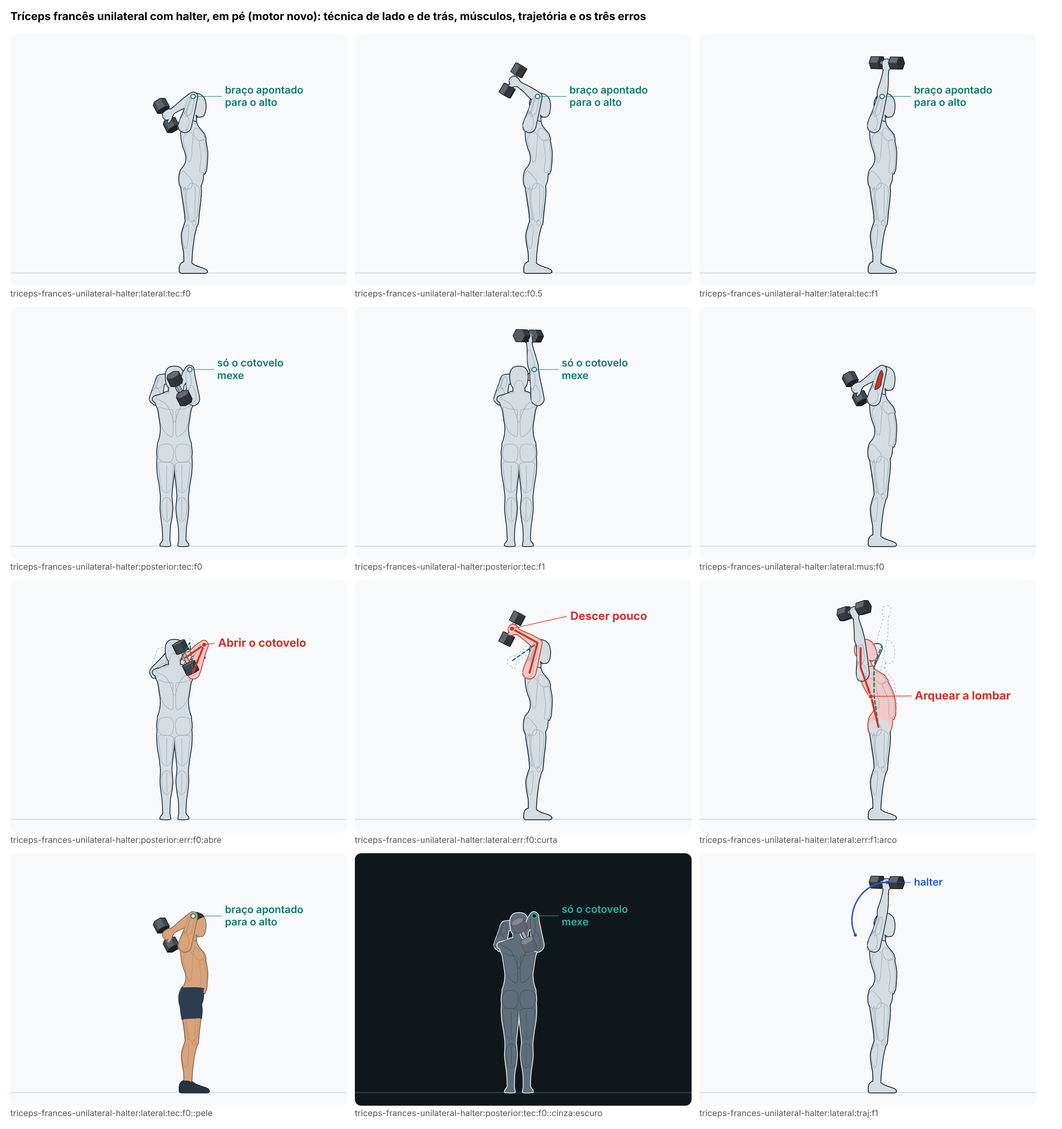
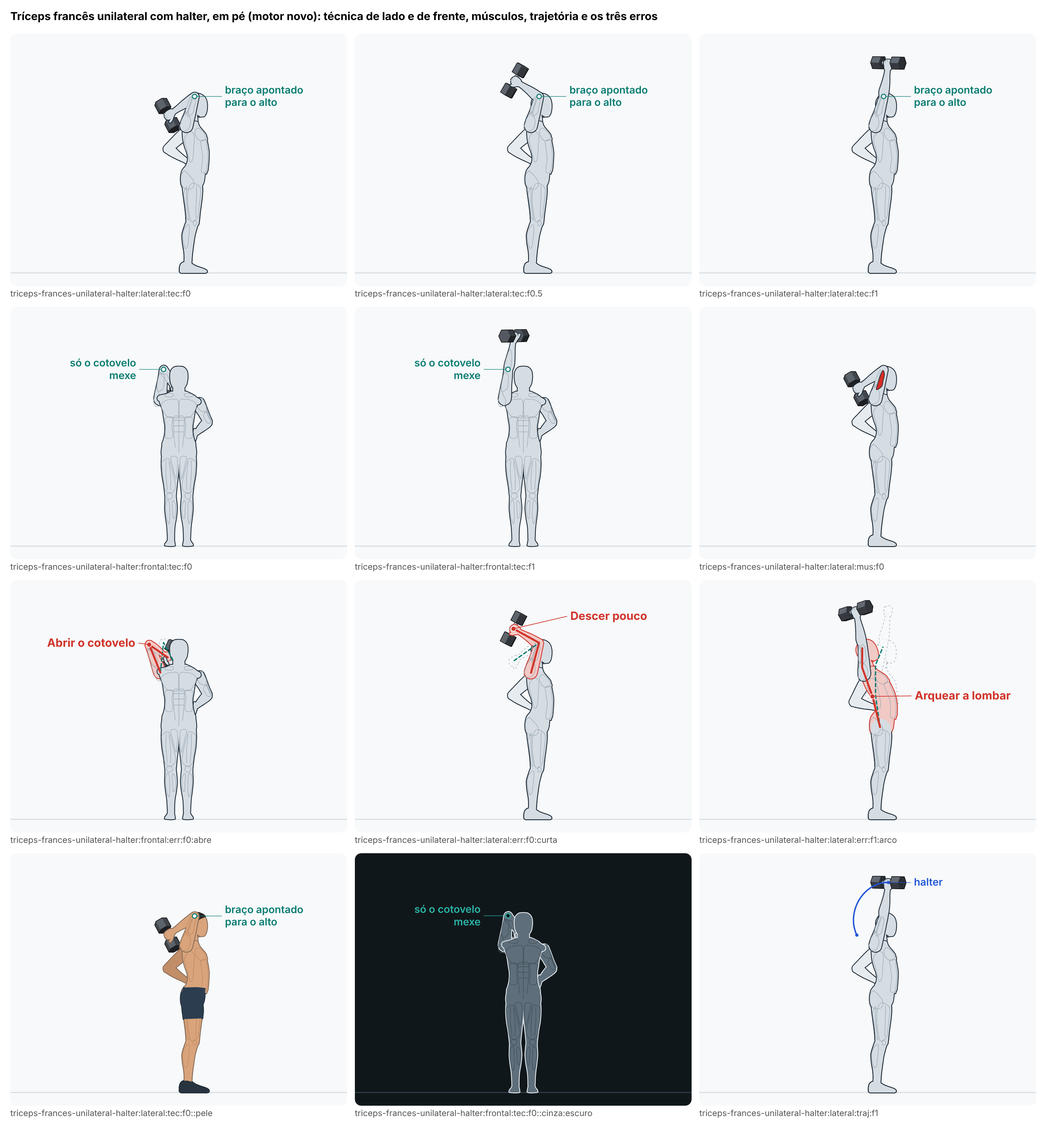
Lote A3: tríceps francês unilateral com a outra mão na cintura
A mão esquerda deixa de segurar o cotovelo (opcional no cartão): o braço
esquerdo cruzava por cima da cabeça e tapava o rosto. Ela fica na
cintura, como no unilateral na polia aprovado, e a vista de frente volta
no lugar da de trás (o tríceps aparece de frente; o rosto fica livre).
A pelve vai 1,5 cm à frente para o centro de massa voltar ao meio do pé.

Claude-Session: https://claude.ai/code/session_01YRzts8DBGbsca9onebcMt1

diff --git a/src/engine/novo/exercicios/triceps-frances-base.ts b/src/engine/novo/exercicios/triceps-frances-base.ts
@@ -17,7 +17,7 @@
 // pé de trás, é montada por quem usa o núcleo.
 // Com um halter numa mão só (`carga: 'halter-unilateral'`, acréscimo de 17/11/2026): em pé, o tronco na vertical (os pés
 // lado a lado, pelas linhas da ficha), a mão direita fecha no cabo do halter com a pegada neutra (a do estribo) e o
-// cabo atravessa a mão; a mão esquerda segura o braço direito logo acima do cotovelo.
+// cabo atravessa a mão; a mão esquerda fica na cintura, como com o estribo.
 import { formaDoKettlebell } from '../equipamento';
 import { resolverMembros, resolverTronco, sinal } from '../esqueleto';
 import type { Lado, PoseBraco, PosePerna, Tronco } from '../esqueleto';
@@ -189,15 +189,15 @@ export function criarTricepsFrances(fichaJson: unknown, carga: CargaDoFrances): 
     const eixo = eixoDe(phi);
     const R = montaLado('R', phi, eixo),
       L = montaLado('L', phi, eixo);
-    // com o estribo, a outra mão fica na cintura
-    const poseL = carga === 'estribo' ? maoNaCintura(corpo, t) : carga === 'halter-unilateral' ? maoNoCotovelo(T, R.cot, e0.lado.R.ombro) : L.m.pose;
+    // com o estribo e com o halter numa mão, a outra mão fica na cintura
+    const poseL = carga === 'estribo' || carga === 'halter-unilateral' ? maoNaCintura(corpo, t) : L.m.pose;
     const e = resolverMembros(t, { R: R.m.pose, L: poseL }, pernas);
     return { e, eixo, maos: { R: R.m, L: L.m }, phi };
   }
 
   /**
-   * A mão esquerda na cintura (só com o estribo): a palma aberta sobre a crista do osso do quadril, os dedos para a
-   * frente e para baixo, o polegar para cima, o cotovelo para fora e para trás.
+   * A mão esquerda na cintura (com o estribo e com o halter numa mão): a palma aberta sobre a crista do osso do
+   * quadril, os dedos para a frente e para baixo, o polegar para cima, o cotovelo para fora e para trás.
    */
   function maoNaCintura(corpo: Corpo, t: Tronco): PoseBraco {
     const P = t.pelve;
@@ -205,18 +205,6 @@ export function criarTricepsFrances(fichaJson: unknown, carga: CargaDoFrances): 
     const punho = noRef(P, [s * f('maoNaCintura.x'), corpo.m('altura.cristaIliaca') - corpo.m('altura.trocanter') + f('maoNaCintura.acima'), f('maoNaCintura.z')]);
     const dedos = norm(dirRef(P, [0, -0.45, 1]));
     return { punho, polo: dirRef(P, [s * 0.6, 0, -1]), mao: { dedos, polegar: dirRef(P, [0, 1, 0]), forma: 'aberta' } };
-  }
-
-  /**
-   * A mão esquerda segurando o braço direito (só com o halter numa mão): a mão fecha em volta do braço, a
-   * `maoNoCotovelo.doCotovelo` cm do cotovelo, vinda da frente e por cima da cabeça; o polegar aponta para o ombro
-   * direito (assim o antebraço esquerdo fica dentro da rotação que ele tem), o cotovelo esquerdo para a frente, para
-   * fora e um pouco para cima (o antebraço passa na altura da testa, e não na frente dos olhos).
-   */
-  function maoNoCotovelo(T: Tronco['torax'], cot: V3, ombro: V3): PoseBraco {
-    const u = norm(sub(ombro, cot));
-    const pegada = add(cot, mul(u, f('maoNoCotovelo.doCotovelo')));
-    return { pegada, polo: norm(dirRef(T, [f('maoNoCotovelo.poloFora'), -f('maoNoCotovelo.poloBaixo'), 1])), mao: { polegar: u, forma: 'pegada', diam: f('maoNoCotovelo.diam') } };
   }
 
   /* ---------------- calibração (uma vez por corpo) ---------------- */
@@ -362,7 +350,7 @@ export function criarTricepsFrances(fichaJson: unknown, carga: CargaDoFrances): 
       const centro = R.pegada,
         eixo = R.mao.x;
       marcas.halter = centro;
-      marcas.maoNoBraco = L.pegada;
+      marcas.maoDeApoio = L.pegada;
       return { esq: e, prims: [chao(-70, 70, -60, 90), ...halter(centro, eixo, 0.2)], pecas: [{ t: 'halter', centro, eixo }], fios: [], cargas: [{ massa: obj('halter', 'massa'), pos: centro }], marcas, vies: { maoR: 1 } };
     }
     const meio = mul(add(R.pegada, L.pegada), 0.5);

diff --git a/src/engine/novo/regras/triceps-frances-unilateral-halter.ts b/src/engine/novo/regras/triceps-frances-unilateral-halter.ts
@@ -1,8 +1,7 @@
-// Regra medida do tríceps francês unilateral com halter: a outra mão segura o braço que trabalha, logo acima do
-// cotovelo, e fica com ele (as outras regras são as dos tríceps franceses: ./triceps-frances.ts e
-// ./triceps-frances-unilateral.ts).
+// Regra medida do tríceps francês unilateral com halter: o halter não encosta no corpo, medido com a forma das cabeças
+// (as outras regras são as dos tríceps franceses: ./triceps-frances.ts e ./triceps-frances-unilateral.ts).
 import { pontosDoBoneco } from '../boneco';
-import { f1, faixa } from '../conferir-util';
+import { f1 } from '../conferir-util';
 import type { Regra } from '../conferir-util';
 import type { Prim } from '../desenho';
 import { dist, dot, norm, sub } from '../vec';
@@ -46,23 +45,5 @@ export const REGRAS_TRICEPS_FRANCES_UNILATERAL_HALTER: Record<string, Regra> = {
       }
     }
     return { medido: `o halter passa a no mínimo ${f1(min)} cm da pele (${qual})`, ok: min >= 1 };
-  },
-  'triceps-frances-mao-no-cotovelo': (q) => {
-    // a menor distância entre a pele da mão esquerda e a do braço direito (perto do cotovelo), e onde a mão fica
-    const folgas: number[] = [],
-      doCotovelo: number[] = [];
-    for (const [i, x] of q.entries()) {
-      doCotovelo.push(dist(x.esq.lado.L.pegada, x.esq.lado.R.cotovelo));
-      if (i % 4 && i !== q.length - 1) continue;
-      const pts = pontosDoBoneco(x.esq);
-      const mao = pts.filter((p) => (p.parte === 'mao' || p.parte === 'polegar') && p.p[0] > x.esq.lado.R.cotovelo[0] && dist(p.p, x.esq.lado.L.pegada) < 12).map((p) => p.p);
-      const braco = pts.filter((p) => p.parte === 'braco' && dist(p.p, x.esq.lado.R.cotovelo) < 14).map((p) => p.p);
-      let m = 1e9;
-      for (const a of mao) for (const b of braco) m = Math.min(m, dist(a, b));
-      folgas.push(m);
-    }
-    const [a, b] = faixa(folgas),
-      [c, d] = faixa(doCotovelo);
-    return { medido: `a pele da mão esquerda fica de ${f1(a)} a ${f1(b)} cm da pele do braço direito; o centro da mão fica de ${f1(c)} a ${f1(d)} cm do cotovelo`, ok: b <= 1.5 && d <= 12 };
   },
 };

diff --git a/src/engine/novo/exercicios/triceps-frances-unilateral-halter.ts b/src/engine/novo/exercicios/triceps-frances-unilateral-halter.ts
@@ -2,7 +2,9 @@
 // (../dados/movimentos/triceps-frances-unilateral-halter.json); o movimento é o de ./triceps-frances-base.ts (o braço do
 // tríceps francês unilateral na polia aprovado): em pé, pés na largura do quadril, tronco reto. O halter na mão direita
 // (o braço de perto, de lado), com a pegada neutra; o braço fica parado, apontado para o alto, e só o cotovelo dobra,
-// levando o halter para trás da cabeça, e estende. A mão esquerda segura o braço direito logo acima do cotovelo.
+// levando o halter para trás da cabeça, e estende. A mão esquerda fica na cintura, como no unilateral na polia
+// aprovado (o cartão deixa segurar o cotovelo como opcional: com a mão no cotovelo, o braço esquerdo cruzava por cima
+// da cabeça e tapava o rosto).
 // Em pé, e não sentado: a ficha da técnica pede só o halter (a cadeira ou o banco são opcionais), e o cartão põe o
 // banco como preferência ("se preferir sentado").
 import ficha from '../dados/movimentos/triceps-frances-unilateral-halter.json';
@@ -13,7 +15,7 @@ const T = criarTricepsFrances(ficha, 'halter-unilateral');
 
 export const tricepsFrancesUnilateralHalter: Exercicio = {
   ficha: T.ficha,
-  vistas: ['lateral', 'posterior'],
+  vistas: ['lateral', 'frontal'],
   quadro: T.quadro,
   // a biblioteca: tríceps principal, sem secundário; só o lado que trabalha
   papeis: { 'triceps:R': 'p' },

diff --git a/docs/revisoes/animacao-nova/lote-A3/triceps-frances-unilateral-halter.md b/docs/revisoes/animacao-nova/lote-A3/triceps-frances-unilateral-halter.md
@@ -1,28 +1,23 @@
 # Lote A3 · Tríceps francês unilateral com halter (`triceps-frances-unilateral-halter`)
 
-De 17/11/2026. Primeira animação deste exercício (até aqui ele só aparecia como cartão de texto). **Em pé**, pés na largura do quadril, tronco reto; um halter de 25 lb na mão direita, com a pegada neutra; o braço fica parado, apontado para o alto, e só o cotovelo dobra, levando o halter para trás da cabeça, e estende. A mão esquerda segura o braço direito logo acima do cotovelo. **Ainda não aprovada nem ligada às telas** (quem integra registra em `aprovados.ts` e no catálogo do guia).
+De 17/11/2026. Primeira animação deste exercício (até aqui ele só aparecia como cartão de texto). **Em pé**, pés na largura do quadril, tronco reto; um halter de 25 lb na mão direita, com a pegada neutra; o braço fica parado, apontado para o alto, e só o cotovelo dobra, levando o halter para trás da cabeça, e estende. **A mão esquerda fica na cintura**, como no tríceps francês unilateral na polia aprovado. **Ainda não aprovada nem ligada às telas** (quem integra registra em `aprovados.ts` e no catálogo do guia).
 
 - Ficha da técnica: `docs/pesquisa/animacoes/triceps-frances-unilateral-halter.md`. Cartão do app: `src/conteudo/exercicios/triceps-frances-unilateral-halter.json` (só leitura).
 - Ficha de movimento: `src/engine/novo/dados/movimentos/triceps-frances-unilateral-halter.json`.
-- Animação: `src/engine/novo/exercicios/triceps-frances-unilateral-halter.ts`, sobre o núcleo dos tríceps franceses (`exercicios/triceps-frances-base.ts`), com a variação nova `'halter-unilateral'`. Regras novas: `src/engine/novo/regras/triceps-frances-unilateral-halter.ts`.
+- Animação: `src/engine/novo/exercicios/triceps-frances-unilateral-halter.ts`, sobre o núcleo dos tríceps franceses (`exercicios/triceps-frances-base.ts`), com a variação nova `'halter-unilateral'`. Regra nova: `src/engine/novo/regras/triceps-frances-unilateral-halter.ts`.
 - Quadros grandes: `../quadros/triceps-frances-unilateral-halter.png`. **Sem folha**: o exercício não tinha animação.
 
 ## Em pé, e não sentado
 
 O cartão aceita os dois ("Sentado ou em pé"). A ficha da técnica pede **só o halter**, com "cadeira ou banco opcionais", e o cartão põe o banco como preferência ("Uma cadeira ou banco, se preferir sentado"). O caso de base, o que serve a quem tem só o halter, é em pé. Em pé, o erro do cartão "o tronco inclina para trás" também tem para onde ir.
 
-## A outra mão no cotovelo
+## A outra mão na cintura (revisão de 17/11/2026)
 
-O cartão sugere ("a outra mão segura o cotovelo de trabalho, se quiser"), e eu desenhei: a mão esquerda fecha em volta do braço direito, 7 cm acima do cotovelo, vinda da frente e por cima da cabeça. O que precisou de ajuste, medido:
-
-- com o cotovelo esquerdo apontando para baixo, o antebraço esquerdo passava na frente dos olhos e encostava no rosto (0,1 cm); com ele apontando um pouco para cima (`maoNoCotovelo.poloBaixo` = −0,3), o antebraço passa na altura da testa, a no mínimo 0,8 cm da pele da cabeça;
-- com o polegar para o cotovelo, o antebraço esquerdo girava 123° a 161° (acima da amplitude da tabela); com o polegar para o ombro, ele fica em 35°.
-
-**Por isso a segunda vista é a de trás, e não a de frente:** de frente, o antebraço esquerdo tapa o rosto (é o que acontece de verdade, mas o quadro vira um borrão). De trás, o halter atrás da cabeça e o cotovelo apontado para cima se leem de relance, e o braço esquerdo fica atrás da cabeça.
+A primeira versão desenhou a sugestão do cartão ("a outra mão segura o cotovelo de trabalho, se quiser"): a mão esquerda no braço direito, 7 cm acima do cotovelo. O braço esquerdo cruzava por cima da cabeça e, de lado, o quadro ficava confuso; de frente, o antebraço esquerdo tapava o rosto, e a segunda vista teve de ser a de trás, onde o tríceps não aparece (0 cm²). Na revisão de quem integra, a mão foi para a cintura, como no unilateral na polia aprovado: o cartão diz que segurar o cotovelo é opcional. Com isso, **a vista de frente voltou a servir** (o tríceps aparece com 90 a 95 cm² e o rosto fica livre), e o rótulo e o erro de abrir o cotovelo voltaram para ela.
 
 ## Onde os números saem
 
-A ficha da técnica dá "braço acima da cabeça, apontado para o alto" (maeo2023, um estudo) e "só o cotovelo dobra, até bem dobrado" (consenso), sem número. O que ela não dá saiu dos tríceps franceses aprovados: o braço a 165° do braço pendurado (o com halter), 6° para o meio, o cotovelo a 135° embaixo e a mão atrás da cabeça a 5 cm do meio, a pegada neutra e o tempo das fases (o unilateral na polia); a postura em pé, dos desenvolvimentos em pé aprovados (pés a 9 cm do meio, joelhos a 8°). O meio da pelve fica 3,5 cm à frente para o centro de massa (corpo + halter) cair no meio do pé.
+A ficha da técnica dá "braço acima da cabeça, apontado para o alto" (maeo2023, um estudo) e "só o cotovelo dobra, até bem dobrado" (consenso), sem número. O que ela não dá saiu dos tríceps franceses aprovados: o braço a 165° do braço pendurado (o com halter), 6° para o meio, o cotovelo a 135° embaixo e a mão atrás da cabeça a 5 cm do meio, a pegada neutra, a mão na cintura e o tempo das fases (o unilateral na polia); a postura em pé, dos desenvolvimentos em pé aprovados (pés a 9 cm do meio, joelhos a 8°). O meio da pelve fica 5 cm à frente para o centro de massa (corpo + halter) cair no meio do pé (com a mão na cintura, o braço esquerdo não vai mais para a frente da cabeça, e a pelve foi 1,5 cm mais à frente que na primeira versão).
 
 ## O que a fonte pede × o que o boneco faz (medido) × confere?
 
@@ -34,23 +29,27 @@ A ficha da técnica dá "braço acima da cabeça, apontado para o alto" (maeo202
 | Embaixo: halter atrás da cabeça, cotovelo bem dobrado | consenso | o cotovelo dobra 134,7°; o centro da mão fica 18,7 cm atrás da parte de trás da cabeça | sim |
 | Em cima: braço reto acima da cabeça | consenso | o cotovelo dobra 8,1° | sim |
 | O halter não encosta na cabeça, na nuca nem nas costas | desenho | o halter passa a no mínimo 1,1 cm da pele (o braço) | sim |
-| A outra mão segura o cotovelo de trabalho (cartão) | consenso | a pele da mão esquerda fica de 0,3 a 0,4 cm da pele do braço direito; o centro da mão a 7 cm do cotovelo | sim |
+| A outra mão (segurar o cotovelo é opcional no cartão) | desenho | na cintura: a pele da mão esquerda fica a 0,6 cm da pele da cintura e não anda em relação à pelve (0 cm) | sim |
 | Descida ~2 a 3 s | consenso | 2,5 s; subida em 1,1 s (a do tríceps francês aprovado); ritmo suave (6,2% da velocidade de pico) | sim |
-| Equilíbrio (mecânica) | consenso | o centro de massa (corpo + halter) anda de −3,3 a 1,7 cm do meio do pé | sim |
+| Equilíbrio (mecânica) | consenso | o centro de massa (corpo + halter) anda de −2,9 a 2,1 cm do meio do pé (limite: ±5 cm) | sim |
 
 **O halter contra o corpo é medido por uma regra nova** (`triceps-frances-halter-livre-do-corpo`), e não pela dos tríceps franceses com as duas mãos (`triceps-frances-carga-livre-do-corpo`). A de lá mede cada cabeça do halter como uma cápsula (pontas arredondadas, com o raio da cabeça). Com o cabo atravessando a mão, a ponta arredondada da cápsula entra no punho, e a regra dava 0,4 cm "do antebraço" para uma cabeça de pontas planas que, medida como ela é, fica a mais de 1 cm da pele. A regra nova mede a cabeça como um cilindro de pontas planas com o raio de fora do prisma (a forma de verdade, ou um pouco maior), com o mesmo limite (1 cm).
 
-**Conferência automática: 0 falha, 2 avisos.** (1) As linhas da ficha de movimento que são escolha de desenho (os pés, a pelve, o joelho, o pescoço, o braço para o meio, a mão atrás da cabeça e as três linhas da mão no cotovelo). (2) O modo Músculos abre de lado (64 cm²); de trás o tríceps não aparece (0 cm²: com o braço acima da cabeça, a parte de trás do braço fica virada para a frente). De frente ele apareceria (95 cm²), mas de frente o rosto fica tapado (acima).
+**Conferência automática: 0 falha, 1 aviso**: as linhas da ficha de movimento que são escolha de desenho (os pés, a pelve, o joelho, o pescoço, o braço para o meio, a mão atrás da cabeça e as três linhas da mão na cintura). O modo Músculos abre de frente (90 cm², o pior dos três instantes; 95 cm² no alongado), com o tríceps de frente porque, com o braço acima da cabeça, a parte de trás do braço fica virada para a frente; de lado, 64 cm².
+
+## As vistas
+
+**De lado** (padrão do modo Técnica): o braço parado apontado para o alto, o halter descendo atrás da cabeça e o arco da lombar. **De frente**: o cotovelo perto da cabeça (e o erro de abri-lo), o tríceps no modo Músculos e o rosto livre. Embaixo, de frente, o halter fica escondido atrás da cabeça (é onde ele tem de estar); a vista de lado mostra onde ele está.
 
 ## Erros (os três do cartão, com o mesmo título e na mesma ordem)
 
 | Erro (texto do app) | Vista | O que o boneco faz (medido) |
 |---|---|---|
-| Abrir o cotovelo | de trás | no alongado, o braço abre 22° para fora (o cotovelo vai a 20,9 cm da cabeça; o certo: 7,6 cm) e volta para perto da cabeça estendendo; a mão esquerda continua no braço |
+| Abrir o cotovelo | de frente | no alongado, o braço abre 22° para fora (o cotovelo vai a 20,9 cm da cabeça; o certo: 7,6 cm) e volta para perto da cabeça estendendo |
 | Descer pouco | de lado | a descida para com o cotovelo a 75°: o halter fica acima da cabeça, sem descer atrás dela |
 | Arquear a lombar | de lado | enquanto o halter sobe, a lombar estende 16° e as costas de cima 6°: o peito vai 19,5° para trás da vertical |
 
-Os três são pose; nenhum ficou de fora. Nos três, o halter continua longe da pele (1,1 a 4 cm).
+Os três são pose; nenhum ficou de fora. Nos três, o halter continua longe da pele (1,1 a 4 cm) e a mão esquerda fica na cintura (0,5 a 0,6 cm).
 
 ## O equipamento
 
@@ -58,14 +57,13 @@ Os três são pose; nenhum ficou de fora. Nos três, o halter continua longe da 
 
 ## Correções já feitas que esta animação respeita
 
-Não há correção registrada para este exercício. Das correções do tríceps francês com halter (as duas mãos juntas na anilha, 12 cm), nenhuma se aplica a uma mão só; a pegada aqui é no cabo, a do unilateral na polia aprovado.
+Não há correção registrada para este exercício. Das correções do tríceps francês com halter (as duas mãos juntas na anilha, 12 cm), nenhuma se aplica a uma mão só; a pegada aqui é no cabo, e a outra mão na cintura, as do unilateral na polia aprovado.
 
 ## Mudanças em arquivos comuns
 
-- `exercicios/triceps-frances-base.ts`: a variação nova `'halter-unilateral'` (em pé, pela mesma conta do estribo, com o halter na mão e a mão esquerda no braço direito, `maoNoCotovelo`). Aditiva: as outras variações não passam pelo código novo, e o preparo dos tríceps franceses aprovados não mudou.
+- `exercicios/triceps-frances-base.ts`: a variação nova `'halter-unilateral'` (em pé, pela mesma conta do estribo, com o halter na mão e a mão esquerda na cintura, a mesma função do estribo). Aditiva: as outras variações não passam pelo código novo, e o preparo dos tríceps franceses aprovados não mudou.
 
 ## O que não ficou bom
 
-- **De trás, embaixo, a mão que segura o halter fica escondida atrás do halter**; o halter cobre a parte de trás da cabeça (está atrás dela, a mais de 1 cm). De lado a mão fechada no cabo se vê bem.
-- **O antebraço esquerdo passa a ~1 cm da testa.** É como se faz (o braço cruza por cima da cabeça), mas de frente ele tapa o rosto: por isso a vista de frente ficou de fora.
-- **O modo Músculos só tem a vista de lado**: de trás o tríceps não aparece com o braço levantado.
+- **De frente, embaixo, o halter some atrás da cabeça**; só a mão e o antebraço aparecem por cima dela. A vista de lado (a que o app abre) mostra o halter atrás da cabeça.
+- **De lado, o cotovelo esquerdo (mão na cintura) aparece atrás das costas**, como no unilateral na polia aprovado.

diff --git a/docs/revisoes/animacao-nova/lote-A3/resumo-empurrar.md b/docs/revisoes/animacao-nova/lote-A3/resumo-empurrar.md
@@ -6,15 +6,15 @@ Três exercícios que eram cartão de texto ganharam a primeira animação no mo
 |---|---|---|---|
 | `desenvolvimento-unilateral` (um halter, em pé) | `empurrar-para-cima.ts` (variação nova `'halter'`) | 0 falha, 2 avisos | médio |
 | `desenvolvimento-em-pe-halteres` (dois halteres, em pé) | `empurrar-para-cima.ts` (variação nova `'halteres-em-pe'`) | 0 falha, 2 avisos | baixo |
-| `triceps-frances-unilateral-halter` (um halter, em pé) | `triceps-frances-base.ts` (variação nova `'halter-unilateral'`) | 0 falha, 2 avisos | médio |
+| `triceps-frances-unilateral-halter` (um halter, em pé) | `triceps-frances-base.ts` (variação nova `'halter-unilateral'`) | 0 falha, 1 aviso | baixo |
 
-Os avisos são, nos três: as linhas da ficha de movimento que são escolha de desenho, e a segunda vista que não serve ao modo Músculos (o músculo principal some nela em algum instante).
+Os avisos são: nos três, as linhas da ficha de movimento que são escolha de desenho; nos dois desenvolvimentos, a segunda vista (de frente) que não serve ao modo Músculos (a frente do ombro some nela no meio e em cima).
 
 ## Decisões que valem para o Gustavo olhar
 
 - **"Na altura do ombro", e não "das orelhas".** Os dois cartões dos desenvolvimentos em pé pedem o halter na altura do(s) ombro(s); o sentado aprovado pede "das orelhas". Embaixo, o centro da mão fica 5,7 cm acima da ponta do ombro (o sentado: na altura da orelha).
 - **No topo, o cotovelo vai 70° à frente** (o sentado: 30°; o com kettlebell: 80°). Com 30°, de lado, a frente do ombro sumia atrás do braço no topo (0 cm², falha). Com o braço quase na vertical, isso move o cotovelo uns 6 cm.
-- **O tríceps francês unilateral é em pé**, porque a ficha da técnica pede só o halter (cadeira ou banco opcionais) e o cartão põe o banco como preferência. **A outra mão segura o cotovelo** (o cartão sugere): ela fecha no braço direito 7 cm acima do cotovelo, e o antebraço esquerdo passa por cima da testa. Por isso a segunda vista é a **de trás**: de frente, esse antebraço tapa o rosto.
+- **O tríceps francês unilateral é em pé**, porque a ficha da técnica pede só o halter (cadeira ou banco opcionais) e o cartão põe o banco como preferência. **A outra mão fica na cintura**, como no unilateral na polia aprovado. A primeira versão desenhava a sugestão do cartão (a outra mão segurando o cotovelo, "se quiser"), mas o braço esquerdo cruzava por cima da cabeça e tapava o rosto; na revisão de quem integra (17/11), a mão foi para a cintura, e a vista de frente voltou a servir (o tríceps com 90 cm² de frente, o rosto livre).
 
 ## Erros
 
@@ -24,13 +24,13 @@ Todos os nove erros dos cartões são pose ou têm consequência visível, e for
 
 - `exercicios/empurrar-para-cima.ts`: as variações `'halter'` e `'halteres-em-pe'` (o corpo em pé do kettlebell com a pegada do sentado) e o erro `'lado'` (inclinar para o lado). Duas condições que eram escritas pelo que não é kettlebell passaram a nomear o kettlebell, com o mesmo resultado.
 - `exercicios/dobrar-o-quadril.ts`: o campo opcional `lado` (a coluna dobra para a esquerda, metade na lombar e metade na torácica). Sem ele, nada muda.
-- `exercicios/triceps-frances-base.ts`: a variação `'halter-unilateral'` (em pé pela conta do estribo; o halter atravessa a mão fechada; a mão esquerda no braço direito).
-- Regras novas, em arquivos próprios: `regras/desenvolvimentos-em-pe.ts` (`carga-na-altura-do-ombro`, `tronco-sem-inclinar-para-o-lado`, `pernas-paradas`) e `regras/triceps-frances-unilateral-halter.ts` (`triceps-frances-halter-livre-do-corpo`, `triceps-frances-mao-no-cotovelo`). A primeira destas duas mede a cabeça do halter como cilindro de pontas planas: a regra dos tríceps com as duas mãos a mede como cápsula, e com o cabo atravessando a mão a ponta arredondada entra no punho (0,4 cm "do antebraço" numa cabeça que fica a mais de 1 cm da pele).
+- `exercicios/triceps-frances-base.ts`: a variação `'halter-unilateral'` (em pé pela conta do estribo; o halter atravessa a mão fechada; a mão esquerda na cintura, a mesma função do estribo).
+- Regras novas, em arquivos próprios: `regras/desenvolvimentos-em-pe.ts` (`carga-na-altura-do-ombro`, `tronco-sem-inclinar-para-o-lado`, `pernas-paradas`) e `regras/triceps-frances-unilateral-halter.ts` (`triceps-frances-halter-livre-do-corpo`; a mão na cintura usa a regra do unilateral na polia). Essa regra mede a cabeça do halter como cilindro de pontas planas: a regra dos tríceps com as duas mãos a mede como cápsula, e com o cabo atravessando a mão a ponta arredondada entra no punho (0,4 cm "do antebraço" numa cabeça que fica a mais de 1 cm da pele).
 
 `npm run check`: só falha o teste da ponte "todas as animações estão aprovadas e no catálogo do guia", com os três ids novos (esperado: quem integra registra). `node scripts/animacao-nova/preparo.mjs conferir`: as tabelas conferem.
 
 ## O que não ficou bom
 
 - **Desenvolvimentos, de lado:** embaixo o halter de perto se projeta na frente do queixo (ele está fora da cabeça, a 6,7 cm), e no topo o braço passa na frente do rosto. É o mesmo do desenvolvimento com kettlebell aprovado.
-- **Tríceps francês unilateral:** de trás, embaixo, a mão fica escondida atrás do halter; o antebraço esquerdo passa a ~1 cm da testa; o modo Músculos só tem a vista de lado (de trás, com o braço levantado, o tríceps fica virado para a frente).
+- **Tríceps francês unilateral:** de frente, embaixo, o halter some atrás da cabeça (a vista de lado mostra onde ele está).
 - **Desenvolvimento unilateral, erro de inclinar:** o braço sobe na vertical do mundo enquanto o tronco dobra; a ficha não diz o que o braço faz.
